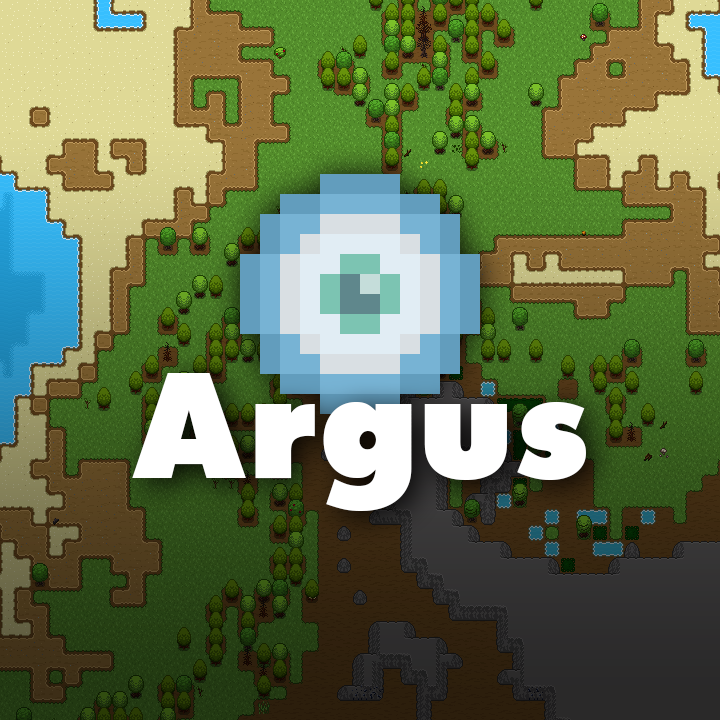
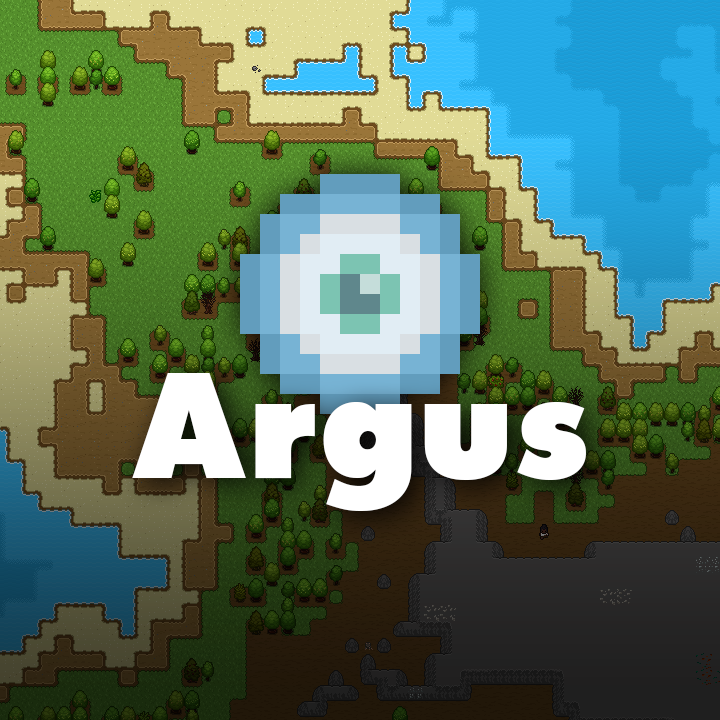
Update thumbnail/screenshots

diff --git a/README.md b/README.md
@@ -19,8 +19,8 @@ Open the folder in Visual Studio Code and build with Ctrl+Shift+B.
 ## Screenshots
 ![Argus](https://raw.githubusercontent.com/WaywardGame/argus/master/mod.png "Argus")
 
-![Screenshot #1](http://images.akamai.steamusercontent.com/ugc/312243491181373202/B4E32A32A75F130D744B61489C3C44D70A3BB311/ "Screenshot #1")
+![Screenshot #1](https://steamuserimages-a.akamaihd.net/ugc/924796934159764662/221715C8B90B2F56FDD169784F5CC48D92730B31/ "Screenshot #1")
 
-![Screenshot #2](http://images.akamai.steamusercontent.com/ugc/312243491181373219/AD83BBF108012373C5A25E32B198266DFD192920/ "Screenshot #2")
+![Screenshot #2](https://steamuserimages-a.akamaihd.net/ugc/924796934159764918/75649090B7E094F8ACEDDC2C3432498151864B7D/ "Screenshot #2")
 
-![Screenshot #3](http://images.akamai.steamusercontent.com/ugc/312243491181373238/44C04291C0BF42094BCC3AFDB456EF90BF73A51F/ "Screenshot #3")
+![Screenshot #3](https://steamuserimages-a.akamaihd.net/ugc/924796934159765120/BCA455AE97C2164CEE27218094492BA9E69B019F/ "Screenshot #3")
